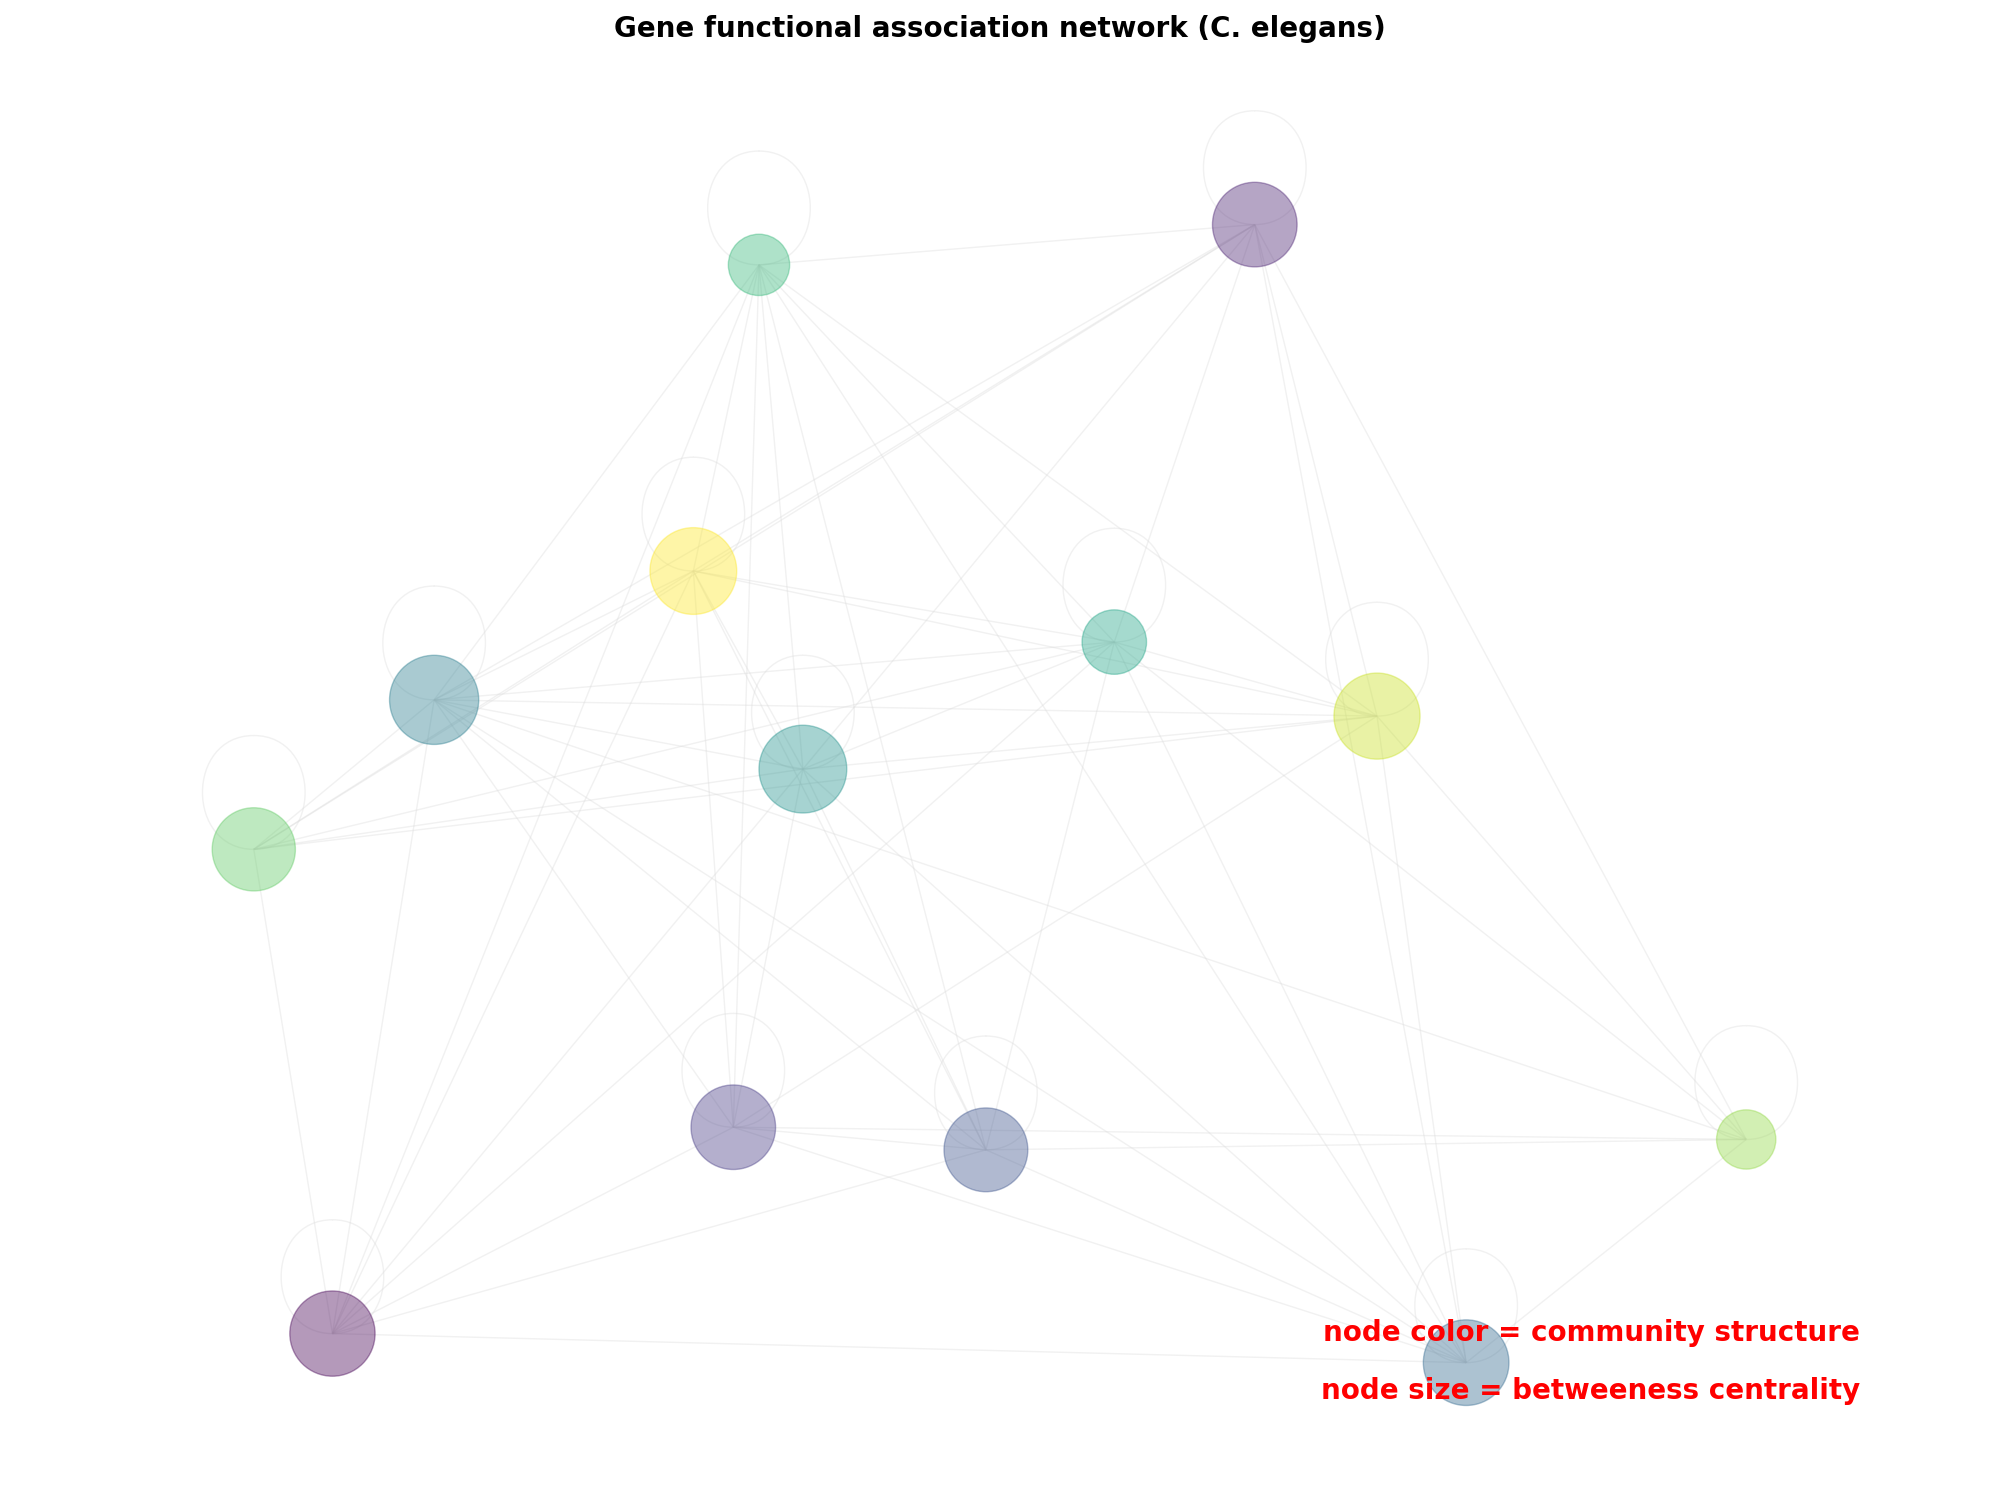
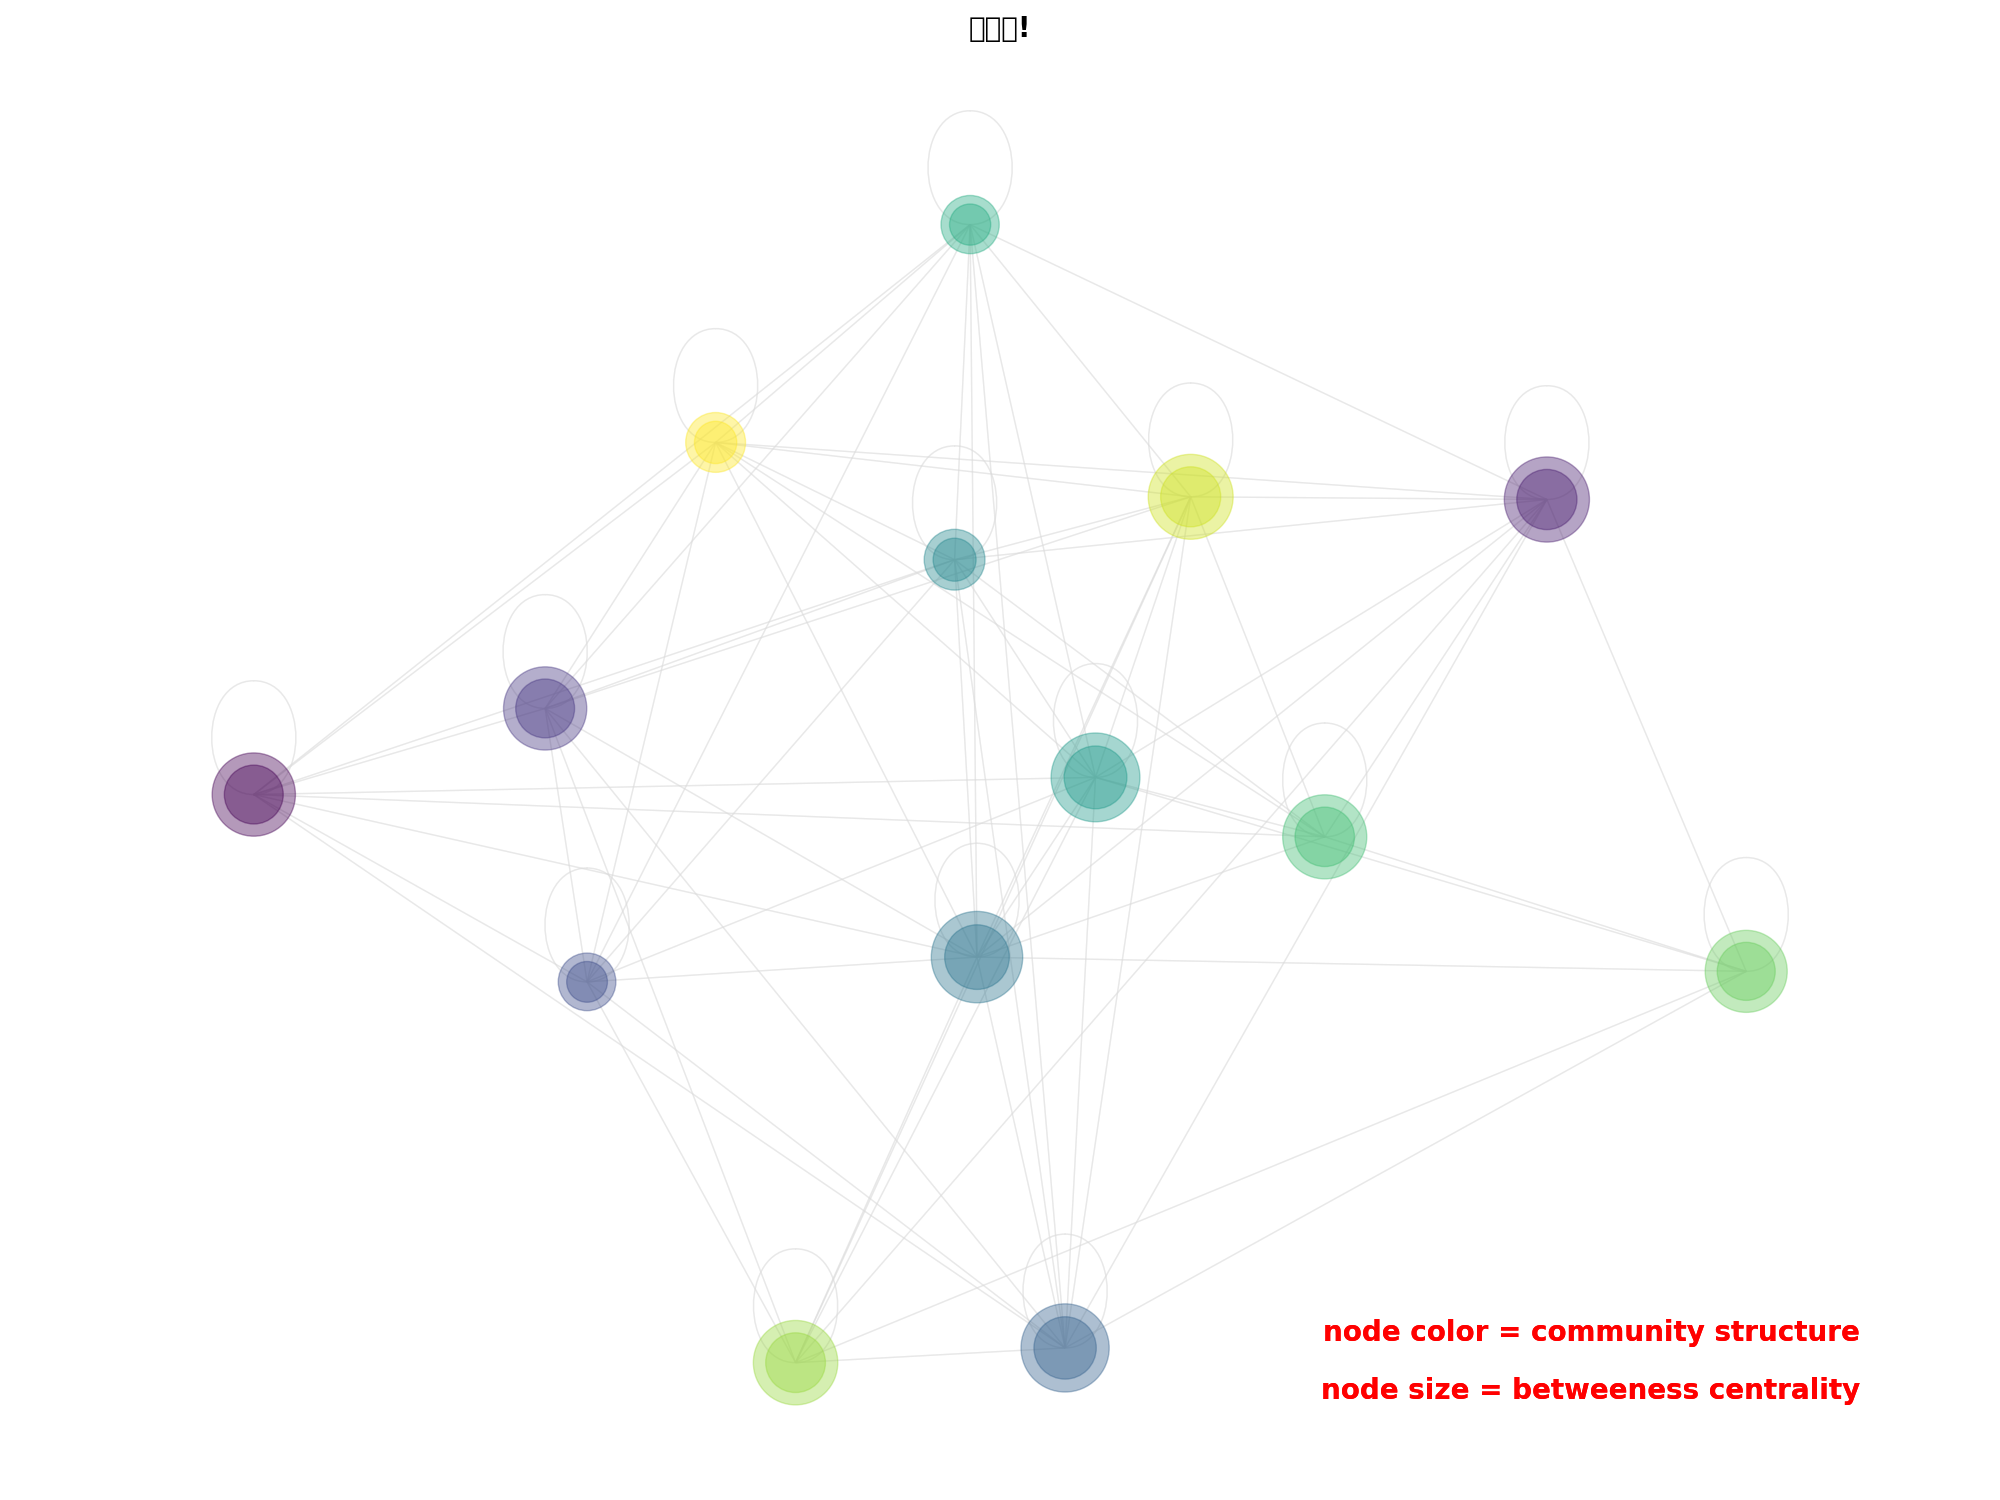
NetworkX레이아웃 추가

diff --git a/model/preprocessing.py b/model/preprocessing.py
@@ -4,11 +4,15 @@ import json
 import re
 import pandas as pd
 import numpy as np
+import networkx as nx
+import matplotlib.pyplot as plt
 
+from networkx.readwrite import json_graph
 from sklearn.metrics.pairwise import cosine_similarity
 from sklearn.feature_extraction.text import TfidfTransformer
 from sklearn.feature_extraction.text import CountVectorizer
 from sklearn.feature_extraction.text import TfidfVectorizer
+from fa2 import ForceAtlas2
 from tqdm import tqdm
 from typing import List
 from PyKomoran import *
@@ -70,10 +74,6 @@ def term_matrix():
                                        columns = tfidf_vectorizer.vocabulary_)
     return tfidf_term_term_mat
 
-import networkx as nx
-import matplotlib.pyplot as plt
-# %matplotlib inline
-from fa2 import ForceAtlas2
 
 df = term_matrix()
 graph = nx.from_numpy_matrix(df.values)
@@ -95,31 +95,12 @@ forceatlas2 = ForceAtlas2(outboundAttractionDistribution=True,  # Dissuade hubs
 
                           # Log
                           verbose=True)
-
-G = graph
 positions = forceatlas2.forceatlas2_networkx_layout(G, pos=None, iterations=2000)
-
-# nx.draw_networkx_nodes(G, positions, node_size=20, with_labels=False, node_color="blue", alpha=0.4)
 nx.draw_networkx_nodes(G, positions, node_size=20, label=True, node_color="blue", alpha=0.4)
 nx.draw_networkx_edges(G, positions, edge_color="green", alpha=0.05)
 
+G = graph
 
-from networkx.readwrite import json_graph
-from random import sample
-
-
-# Gold standard data of positive gene functional associations
-# from https://www.inetbio.org/wormnet/downloadnetwork.php
-#G = nx.read_edgelist("WormNet.v3.benchmark.txt")
-
-# remove randomly selected nodes (to make example fast)
-num_to_remove = int(len(G) / 1.5)
-nodes = sample(list(G.nodes), num_to_remove)
-G.remove_nodes_from(nodes)
-
-# remove low-degree nodes
-low_degree = [n for n, d in G.degree() if d < 10]
-G.remove_nodes_from(low_degree)
 
 # largest connected component
 components = nx.connected_components(G)
@@ -133,11 +114,22 @@ centrality = nx.betweenness_centrality(H, k=10, endpoints=True)
 lpc = nx.community.label_propagation_communities(H)
 community_index = {n: i for i, com in enumerate(lpc) for n in com}
 
+###레이아웃별로 뭐가 이쁠지 테스트 해보기!
+layouts = {'spring': nx.spring_layout(G), 
+           'spectral':nx.spectral_layout(G), 
+           'shell':nx.shell_layout(G), 
+           'circular':nx.circular_layout(G),
+           'kamada_kawai':nx.kamada_kawai_layout(G), 
+           'random':nx.random_layout(G)
+          }
+
+
 #### draw graph ####
 fig, ax = plt.subplots(figsize=(20, 15))
 pos = nx.spring_layout(H, k=0.15, seed=4572321)
 node_color = [community_index[n] for n in H]
 node_size = [v * 20000 for v in centrality.values()]
+
 nx.draw_networkx(
     H,
     pos=pos,
@@ -150,9 +142,8 @@ nx.draw_networkx(
 
 # Title/legend
 font = {"color": "k", "fontweight": "bold", "fontsize": 20}
-ax.set_title("Gene functional association network (C. elegans)", font)
-# Change font color for legend
-font["color"] = "r"
+ax.set_title("테스트!", font)
+font["color"] = "r" # Change font color for legend
 
 ax.text(
     0.80,
@@ -176,3 +167,5 @@ ax.margins(0.1, 0.05)
 fig.tight_layout()
 plt.axis("off")
 plt.savefig("savefig_default.png")
+
+json_graph.node_link_data(H)
